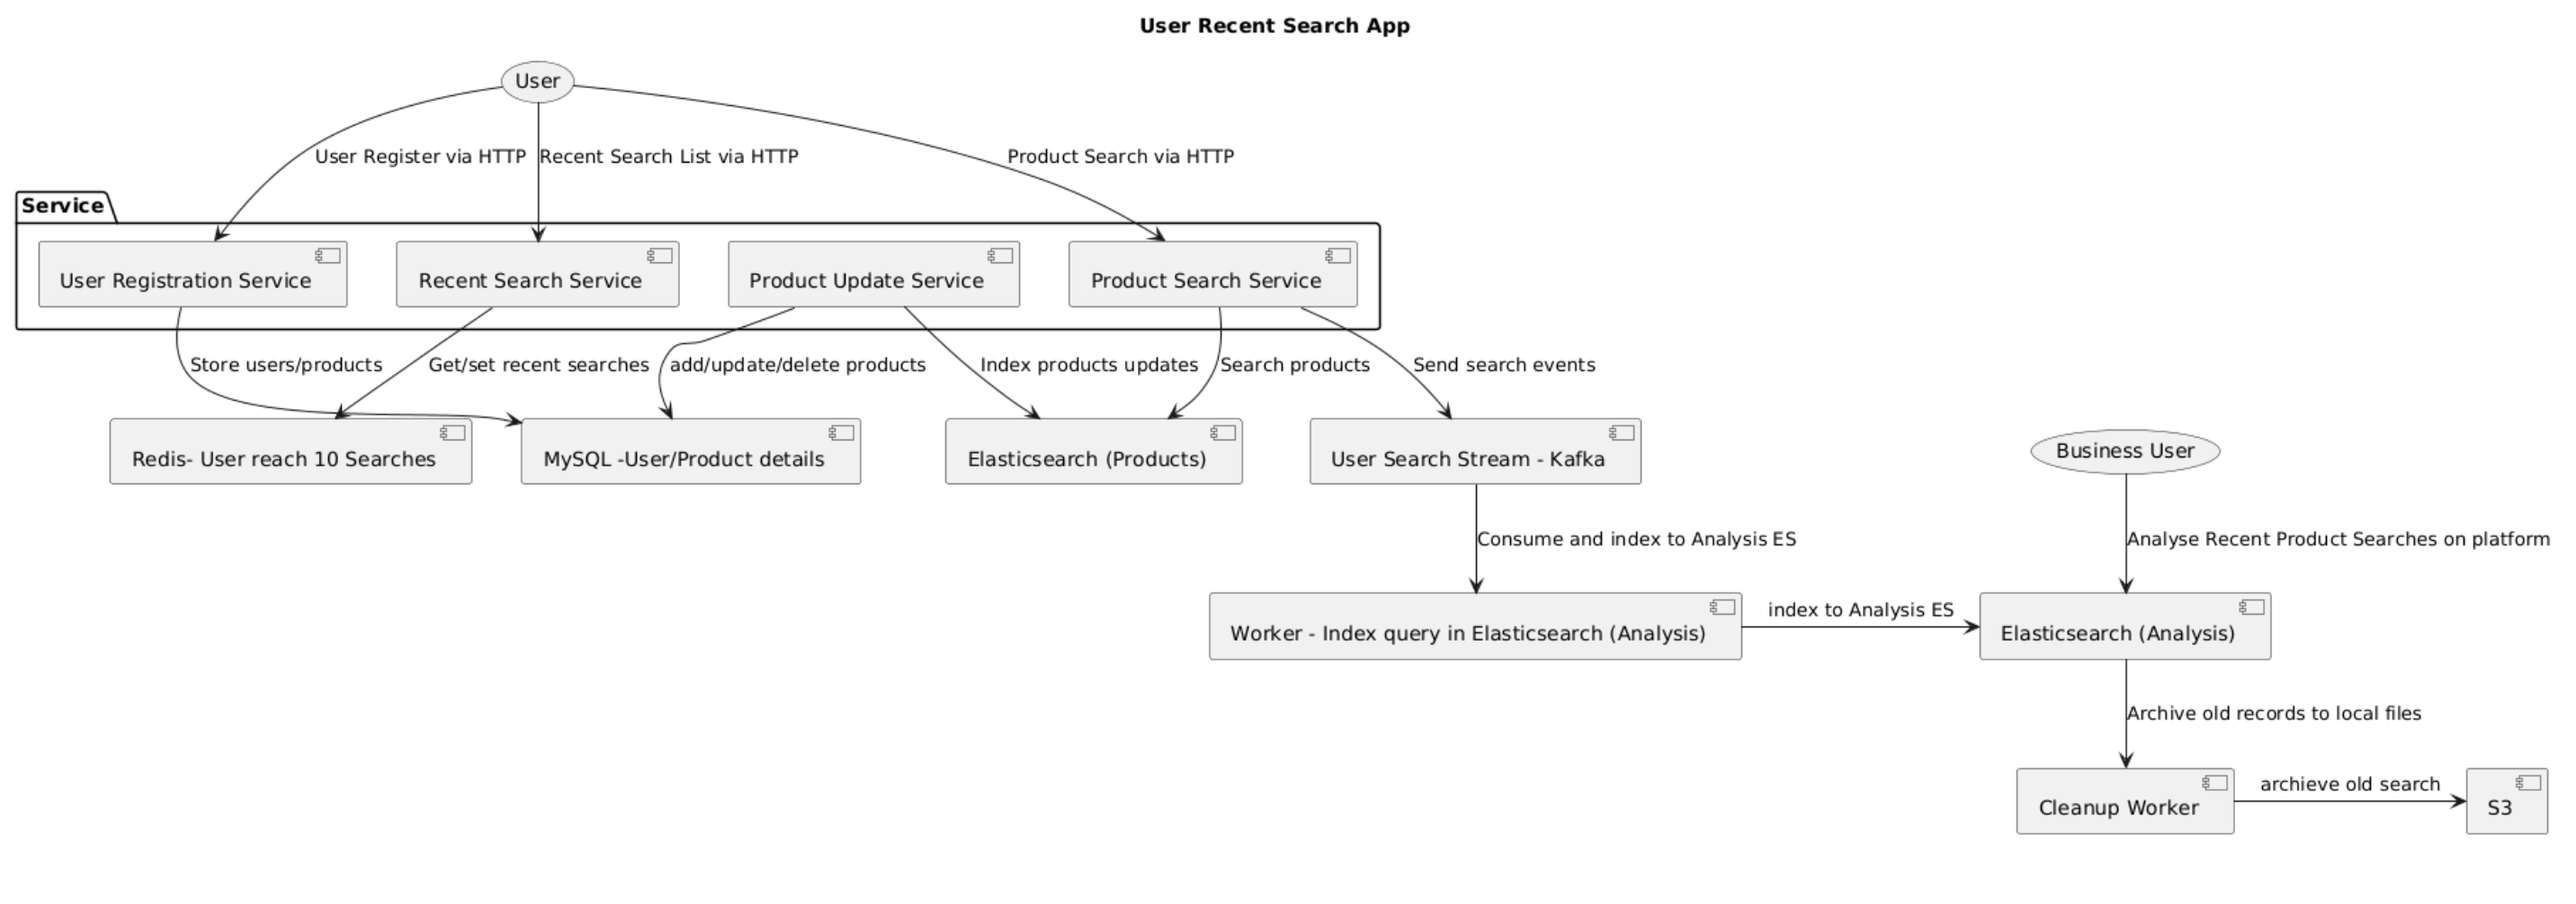
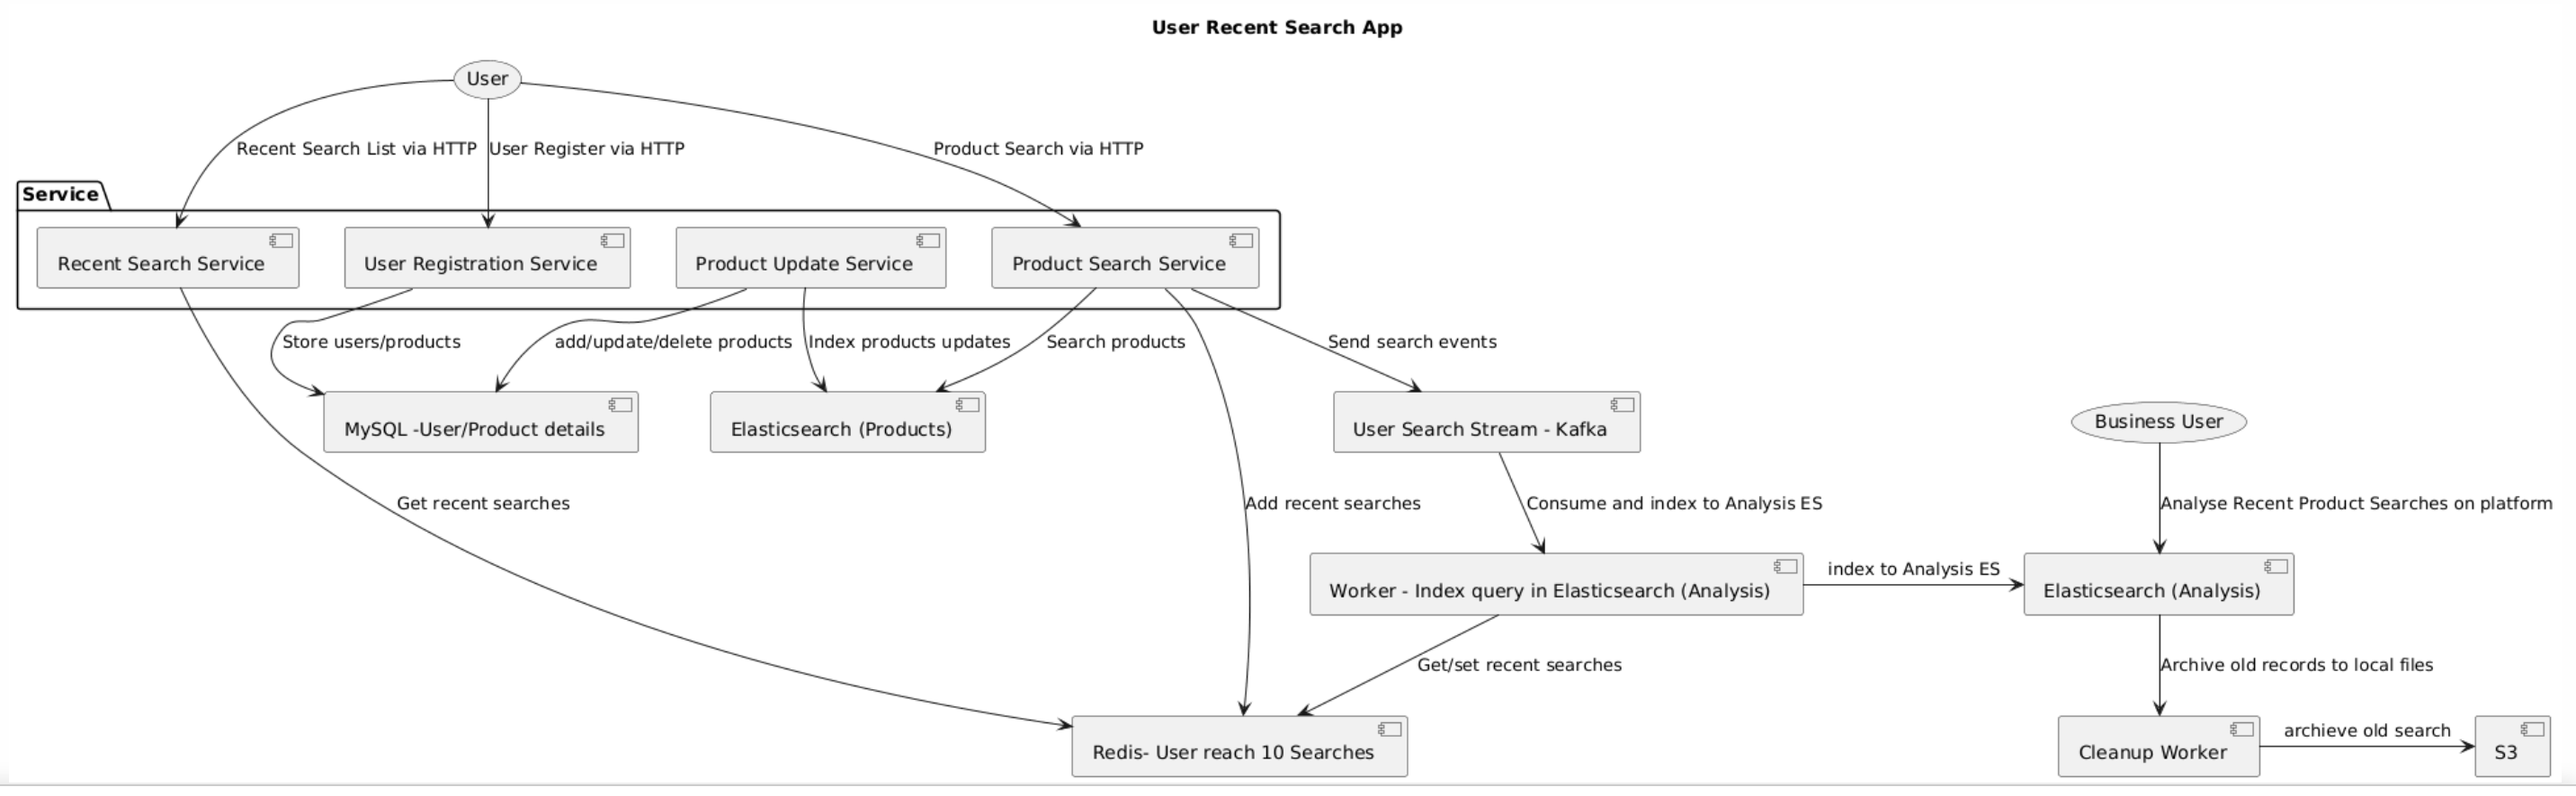
user recent search

diff --git a/user_recent_search_app/search_app.py b/user_recent_search_app/search_app.py
@@ -1,93 +1,156 @@
 # app.py
-from fastapi import FastAPI, Request, Form
+from fastapi import FastAPI, Request, Form, HTTPException
 from fastapi.responses import HTMLResponse
 from fastapi.staticfiles import StaticFiles
 import pymysql  # Changed from mysql.connector to pymysql
 import redis
 from elasticsearch import Elasticsearch
-from confluent_kafka import Producer  # Changed from kafka import KafkaProducer
+from confluent_kafka import Producer, KafkaError  # Changed from kafka import KafkaProducer
 import json
 import uuid
 import os 
+from datetime import datetime
+import requests  # For IP geolocation (optional, install if needed)
 
 os.makedirs("user_recent_search_app/static", exist_ok=True)
 
 app = FastAPI()
 app.mount("/static", StaticFiles(directory="user_recent_search_app/static"), name="static")
 
+def get_location_from_ip(ip):
+    try:
+        response = requests.get(f"http://ipinfo.io/{ip}/json")
+        data = response.json()
+        return {
+            "country": data.get("country"),
+            "city": data.get("city"),
+            "region": data.get("region"),
+            "loc": data.get("loc")  # lat,long
+        }
+    except:
+        return {"country": "Unknown", "city": "Unknown", "region": "Unknown", "loc": "Unknown"}
+
 
 # Connections
 from setup.mysql_setup import config as mysql_config, constants as mysql_constants
-mysql_conn = pymysql.connect( 
-    host=mysql_config.configurations[mysql_constants.HOST],
-    port=mysql_config.configurations[mysql_constants.PORT],
-    user=mysql_config.configurations[mysql_constants.USER],
-    password=mysql_config.configurations[mysql_constants.PASSWORD],
-    database="toy_ecommerce",
-)
+try:
+    mysql_conn = pymysql.connect( 
+        host=mysql_config.configurations[mysql_constants.HOST],
+        port=mysql_config.configurations[mysql_constants.PORT],
+        user=mysql_config.configurations[mysql_constants.USER],
+        password=mysql_config.configurations[mysql_constants.PASSWORD],
+        database="toy_ecommerce",
+    )
+except Exception as e:
+    raise HTTPException(status_code=500, detail=f"MySQL connection failed: {str(e)}")
 
 # Redis connection
 from setup.redis_setup import config as redis_config, constants as redis_constants
-redis_client = redis.Redis(
-    host=redis_config.configurations[redis_constants.REDIS_SERVER],
-    port=redis_config.configurations[redis_constants.REDIS_PORT],
-    decode_responses=True
-)
+try:
+    redis_client = redis.Redis(
+        host=redis_config.configurations[redis_constants.REDIS_SERVER],
+        port=redis_config.configurations[redis_constants.REDIS_PORT],
+        decode_responses=True
+    )
+except Exception as e:
+    raise HTTPException(status_code=500, detail=f"Redis connection failed: {str(e)}")
 
 from setup.elasticsearch_setup import constants as elasticsearch_constants, config as elasticsearch_config
-es = Elasticsearch([{'host': elasticsearch_config.configurations[elasticsearch_constants.ES_HOST], 'port': elasticsearch_config.configurations[elasticsearch_constants.ES_PORT], 'scheme': 'http'}])
+try:
+    es = Elasticsearch([{'host': elasticsearch_config.configurations[elasticsearch_constants.ES_HOST], 'port': elasticsearch_config.configurations[elasticsearch_constants.ES_PORT], 'scheme': 'http'}])
+except Exception as e:
+    raise HTTPException(status_code=500, detail=f"Elasticsearch connection failed: {str(e)}")
 
 # Updated to use confluent_kafka Producer
 from setup.kafka_setup import config as kafka_config, constants as kafka_constants
-producer_conf = {'bootstrap.servers': kafka_config.configurations[kafka_constants.KAFKA_BROKER]}
-producer = Producer(producer_conf)
+try:
+    producer_conf = {'bootstrap.servers': kafka_config.configurations[kafka_constants.KAFKA_BROKER]}
+    producer = Producer(producer_conf)
+except Exception as e:
+    raise HTTPException(status_code=500, detail=f"Kafka producer failed: {str(e)}")
+
+
 
 @app.get("/", response_class=HTMLResponse)
 async def home():
-    with open("user_recent_search_app/templates/index.html", "r") as f:
-        return f.read()
+    try:
+        with open("user_recent_search_app/templates/index.html", "r") as f:
+            return f.read()
+    except FileNotFoundError:
+        raise HTTPException(status_code=404, detail="Template file not found")
+    except Exception as e:
+        raise HTTPException(status_code=500, detail=f"Error loading home page: {str(e)}")
 
 @app.post("/register")
 async def register(username: str = Form(...)):
-    cursor = mysql_conn.cursor()
-    cursor.execute("INSERT INTO users (username) VALUES (%s)", (username,))
-    mysql_conn.commit()
-    return {"message": "User registered"}
+    try:
+        cursor = mysql_conn.cursor()
+        cursor.execute("INSERT INTO users (username) VALUES (%s)", (username,))
+        mysql_conn.commit()
+        return {"message": "User registered"}
+    except pymysql.IntegrityError:
+        raise HTTPException(status_code=400, detail="Username already exists")
+    except Exception as e:
+        raise HTTPException(status_code=500, detail=f"Registration failed: {str(e)}")
 
 @app.get("/recent_searches")
 async def recent_searches(username: str):
-    # Get user recent searches from Redis
-    recent = redis_client.lrange(f"user:{username}:searches", 0, 9)
-    if not recent:
-        # Fallback to global popular searches
-        recent = redis_client.zrevrange("global:popular_searches", 0, 9)
-    return {"searches": recent}
+    try:
+        # Get user recent searches from Redis
+        recent = redis_client.lrange(f"user:{username}:searches", 0, 9)
+        if not recent:
+            # Fallback to global popular searches
+            recent = redis_client.zrevrange("global:popular_searches", 0, 9)
+        return {"searches": recent}
+    except Exception as e:
+        raise HTTPException(status_code=500, detail=f"Error fetching recent searches: {str(e)}")
 
 @app.post("/search")
-async def search(query: str = Form(...), username: str = Form(...)):
-    # Save to Redis (user recent) - use list with set-like behavior: remove if exists, then add to front
-    key = f"user:{username}:searches"
-    redis_client.lrem(key, 0, query)  # Remove the query if it exists (0 removes all occurrences)
-    redis_client.lpush(key, query)    # Add to front
-    redis_client.ltrim(key, 0, 9)     # Keep only 10
-    
-    # Update global popular
-    redis_client.zincrby("global:popular_searches", 1, query)
-    
-    # Search Elasticsearch - Updated for full text and fuzzy search
-    response = es.search(index="products", body={
-        "query": {
-            "multi_match": {
-                "query": query,
-                "fields": ["name", "description", "category", "sub_category"],
-                "fuzziness": "AUTO"  # Enables fuzzy matching for typos
+async def search(query: str = Form(...), username: str = Form(...), request: Request = None):
+    try:
+        # Collect user data
+        ip = request.client.host if request else "Unknown"
+        timestamp = datetime.utcnow().isoformat()
+        location = get_location_from_ip(ip)
+        
+        # Save to Redis (user recent) - use Lua script for atomic operation
+        key = f"user:{username}:searches"
+        # Lua script for updating recent searches
+        update_recent_searches_script = """
+        local key = KEYS[1]
+        local query = ARGV[1]
+        redis.call('LREM', key, 0, query)
+        redis.call('LPUSH', key, query)
+        redis.call('LTRIM', key, 0, 9)
+        """
+        redis_client.eval(update_recent_searches_script, 1, key, query)
+        
+        # Update global popular
+        redis_client.zincrby("global:popular_searches", 1, query)
+        
+        # Search Elasticsearch - Updated for full text and fuzzy search
+        response = es.search(index="products", body={
+            "query": {
+                "multi_match": {
+                    "query": query,
+                    "fields": ["name", "description", "category", "sub_category"],
+                    "fuzziness": "AUTO"  # Enables fuzzy matching for typos
+                }
             }
+        })
+        products = [hit["_source"] for hit in response["hits"]["hits"]]
+        
+        # Send to Kafka using confluent_kafka with additional data
+        event_data = {
+            "username": username,
+            "query": query,
+            "timestamp": timestamp,
+            "ip": ip,
+            "location": location
         }
-    })
-    products = [hit["_source"] for hit in response["hits"]["hits"]]
-    
-    # Send to Kafka using confluent_kafka
-    producer.produce('user_searches', value=json.dumps({"username": username, "query": query, "timestamp": str(uuid.uuid4())}).encode('utf-8'))
-    producer.flush()  # Ensure message is sent
-    
-    return {"products": products}
+        producer.produce('user_searches', value=json.dumps(event_data).encode('utf-8'))
+        producer.flush()  # Ensure message is sent
+        
+        return {"products": products}
+    except Exception as e:
+        raise HTTPException(status_code=500, detail=f"Search failed: {str(e)}")

diff --git a/user_recent_search_app/worker_analysis_elastic_insert.py b/user_recent_search_app/worker_analysis_elastic_insert.py
@@ -2,6 +2,8 @@
 from confluent_kafka import Consumer, KafkaError
 from elasticsearch import Elasticsearch
 import json
+import redis
+from fastapi import HTTPException
 
 from setup.elasticsearch_setup import (
     config as elasticsearch_config,
@@ -32,6 +34,20 @@ consumer_conf = {
 consumer = Consumer(consumer_conf)
 consumer.subscribe(["user_searches"])
 
+
+# Redis connection
+from setup.redis_setup import config as redis_config, constants as redis_constants
+try:
+    redis_client = redis.Redis(
+        host=redis_config.configurations[redis_constants.REDIS_SERVER],
+        port=redis_config.configurations[redis_constants.REDIS_PORT],
+        decode_responses=True
+    )
+except Exception as e:
+    raise HTTPException(status_code=500, detail=f"Redis connection failed: {str(e)}")
+
+
+
 while True:
     msg = consumer.poll(1.0)
     if msg is None:
@@ -47,6 +63,21 @@ while True:
     # Store in analysis Elasticsearch
     es.index(index="search_analysis", body=data)
     print(f"Inserted search event into analysis ES: {data}")
+
+    # Save to Redis (user recent) - use Lua script for atomic operation
+    key = f"user:{data['username']}:searches"
+    # Lua script for updating recent searches
+    update_recent_searches_script = """
+    local key = KEYS[1]
+    local query = ARGV[1]
+    redis.call('LREM', key, 0, query)
+    redis.call('LPUSH', key, query)
+    redis.call('LTRIM', key, 0, 9)
+    """
+    redis_client.eval(update_recent_searches_script, 1, key, data['query'])
+    
+    # Update global popular
+    redis_client.zincrby("global:popular_searches", 1, data['query'])
 
     # Commit offset
     consumer.commit(msg)
